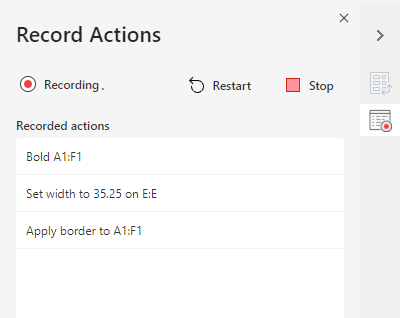
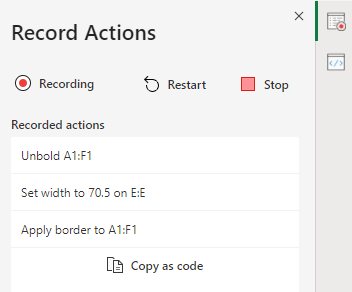
[ui/ux] (Action Recorder) Document the copy as code button (#446)
* Document the copy as code button

* Apply suggestions from code review

diff --git a/docs/overview/excel.md b/docs/overview/excel.md
@@ -2,7 +2,7 @@
 title: 'Office Scripts in Excel on the web'
 description: 'A brief introduction to the Action Recorder and Code Editor for Office Scripts.'
 ms.topic: overview
-ms.date: 09/17/2021
+ms.date: 12/29/2021
 ms.localizationpriority: high
 ---
 
@@ -54,9 +54,12 @@ The Action Recorder records actions you take in Excel and saves them as a script
 
 All scripts recorded with the Action Recorder can be edited through the Code Editor. This lets you tweak and customize the script to better suit your exact needs. You can also add logic and functionality that is not directly accessible through the Excel UI, such as conditional statements (if/else) and loops.
 
-One easy way to start learning the capabilities of Office Scripts is to record scripts in Excel on the web and view the resulting code. Another option is to follow our [tutorials](../tutorials/excel-tutorial.md) to learn in a more guided and structured way.
+> [!TIP]
+> The Action Recorder has a **Copy as code** button to record actions into script code without saving the entire script.
+>
+> :::image type="content" source="../images/action-recorder-copy-code.png" alt-text="The Action Recorder task pane with the 'Copy as code' button highlighted.":::
 
-After completing the tutorial, read [Scripting fundamentals for Office Scripts in Excel on the web](../develop/scripting-fundamentals.md) to learn more about the Code Editor and how to write and edit your own scripts. For additional information about the Code Editor and how your script code is interpreted, read [Office Scripts Code Editor environment](code-editor-environment.md).
+Our [tutorials](../tutorials/excel-tutorial.md) provide a guided and structured way learn the capabilities of Office Scripts. After completing the tutorials, read [Scripting fundamentals for Office Scripts in Excel on the web](../develop/scripting-fundamentals.md) to learn more about the Code Editor and how to write and edit your own scripts. For additional information about the Code Editor and how your script code is interpreted, read [Office Scripts Code Editor environment](code-editor-environment.md).
 
 ## Share scripts
 

diff --git a/docs/develop/best-practices.md b/docs/develop/best-practices.md
@@ -1,13 +1,19 @@
 ---
 title: 'Best practices in Office Scripts'
 description: 'How to prevent common problems and write robust Office Scripts that can handle unexpected input or data.'
-ms.date: 05/10/2021
+ms.date: 12/29/2021
 ms.localizationpriority: medium
 ---
 
 # Best practices in Office Scripts
 
 These patterns and practices are designed to help your scripts run successfully every time. Use them to avoid common pitfalls as you start automating your Excel workflow.
+
+## Use the Action Recorder to learn new features
+
+Excel does a lot of things. Most of them can be scripted. The Action Recorder records your Excel actions and translates them into code. This is the easiest way to learn about how different features work with Office Scripts. If you need code for a specific action, switch to the Action Recorder, perform the actions, select **Copy as code**, and paste the resulting code into your script.
+
+:::image type="content" source="../images/action-recorder-copy-code.png" alt-text="The Action Recorder task pane with the 'Copy as code' button highlighted.":::
 
 ## Verify an object is present
 
